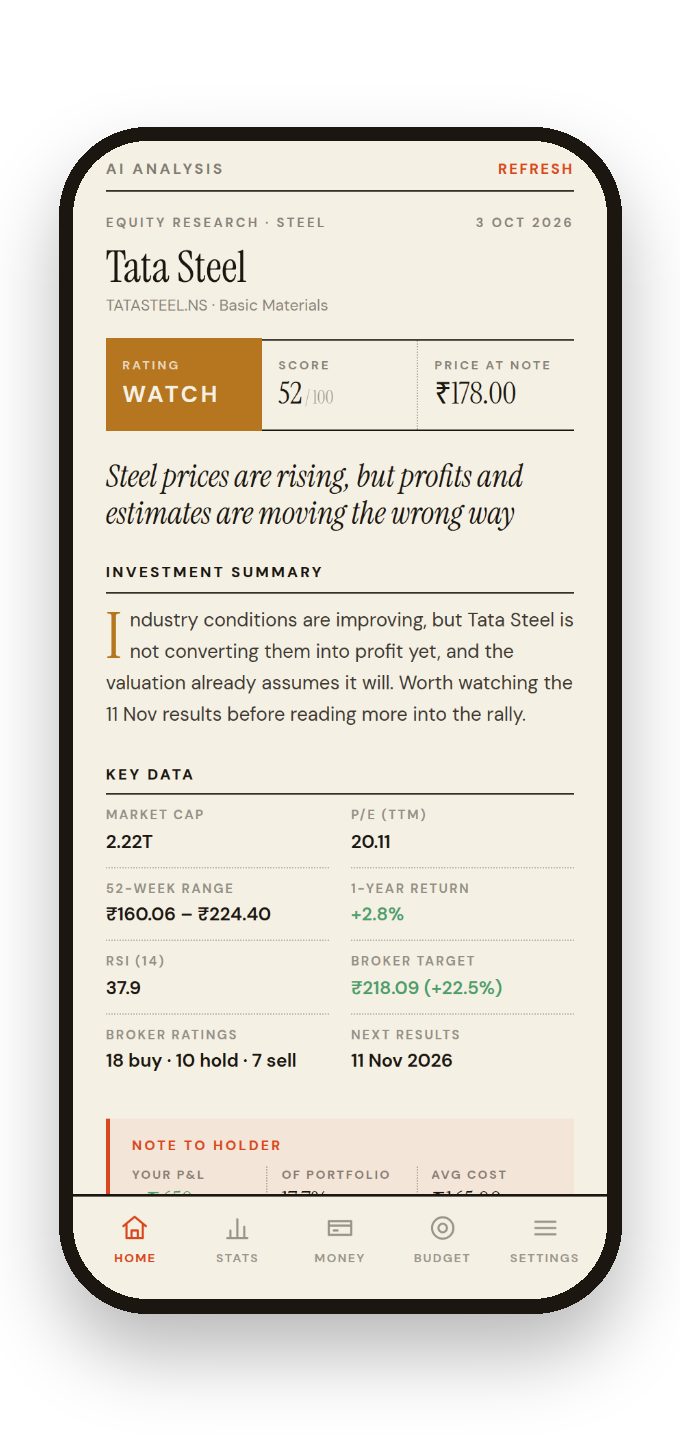
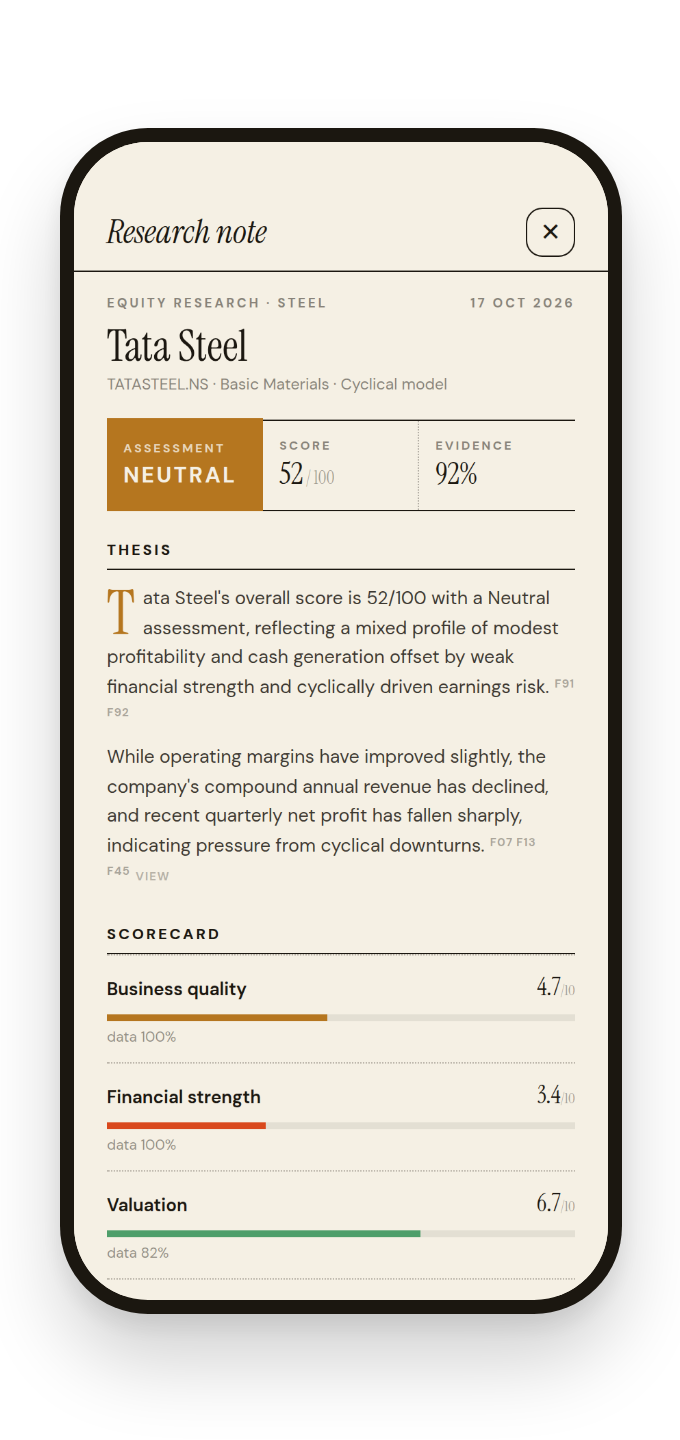
docs: research method v2 in README, CLAUDE.md, tour and probes

diff --git a/src/components/onboarding/WelcomeTour.jsx b/src/components/onboarding/WelcomeTour.jsx
@@ -14,7 +14,7 @@ const SLIDES = [
   { img: homeImg,      accent: '#D9481C', title: 'Everything at a glance',  body: "Your month's spend, budget, portfolio and dues — all on one home screen." },
   { img: askImg,       accent: '#6C5FB0', title: 'Ask Finances anything',  body: 'Ask about your spending, budgets or how the app works — and get instant monthly recaps.' },
   { img: portfolioImg, accent: '#4E9E6A', title: 'Track your investments',  body: 'Stocks, mutual funds and SIPs with live prices, returns and allocation.' },
-  { img: analysisImg,  accent: '#1B1710', title: 'A research note on demand', body: 'One tap weighs the sector, real competitors, quarterly results and news — and tracks how past calls played out.' },
+  { img: analysisImg,  accent: '#1B1710', title: 'A research note on demand', body: 'Four years of financials, peers and valuation scored by fixed rules, explained by AI with every figure checked — and every call tracked.' },
   { img: detailImg,    accent: '#B5761F', title: 'Deep-dive any holding',   body: 'Tap a stock or fund for its live chart, key levels, fundamentals, analyst view and latest news.' },
   { img: moneyImg,     accent: '#6C5FB0', title: 'Your whole net worth',    body: 'Metals, FDs, loans and investments in one number — with a trend that grows.' },
   { img: breakdownImg, accent: '#C9972E', title: 'Where your money goes',   body: 'A clear category breakdown for every month.' },

diff --git a/README.md b/README.md
@@ -33,7 +33,7 @@ An offline-first personal finance app: track spending, budgets, investments, gol
     <td align="center"><img src="docs/frames/portfolio.png?v=2" width="215"/><br/><b>Portfolio</b><br/><sub>Live stocks & mutual funds</sub></td>
   </tr>
   <tr>
-    <td align="center"><img src="docs/frames/analysis.png?v=2" width="215"/><br/><b>Stock analysis 🔬</b><br/><sub>A research note on demand</sub></td>
+    <td align="center"><img src="docs/frames/analysis.png?v=3" width="215"/><br/><b>Stock analysis 🔬</b><br/><sub>A research note on demand</sub></td>
     <td align="center"><img src="docs/frames/detail.png?v=2" width="215"/><br/><b>Holding detail</b><br/><sub>Chart, levels, your position</sub></td>
     <td align="center"><img src="docs/frames/ask.png?v=2" width="215"/><br/><b>Ask Finances 🪄</b><br/><sub>AI: your money & the app</sub></td>
   </tr>
@@ -49,42 +49,46 @@ An offline-first personal finance app: track spending, budgets, investments, gol
 
 ## 🔬 How stock analysis works
 
-One tap builds a full research report. Steps 1–6 run **on the phone, for free**: every number is fetched or computed in code. The AI is called **once**, at the end, only to read the finished numbers and write the report, so it can't invent figures and a report costs under ₹1.
+One tap builds an evidence-based research note. Financial metrics, scores and the assessment are **computed deterministically by code**; the AI is called once, at the end, to explain them — and **every figure it writes is validated against the recorded evidence**, with failing statements removed. A note costs well under ₹1.
 
 ```mermaid
 flowchart TD
     A([📱 Tap “Analyse this stock”]) --> B
 
     subgraph PHONE["On the phone — free, no AI"]
-        B["<b>1 · Identify</b><br/>1Y daily prices + fundamentals<br/>quarterly results · EPS vs estimates · broker ratings<br/><i>Yahoo Finance</i>"]
-        B --> C["<b>2 · Route</b><br/>industry → 1 of 19 sector playbooks<br/>Steel → iron ore, HRC · Banks → NIFTY Bank, RBI · IT → USD-INR, NASDAQ"]
-        C --> D["<b>3 · Find peers</b><br/>every listed company in the industry<br/>→ nearest by market cap · no hardcoded names, no AI<br/><i>Yahoo screener</i>"]
-        D --> E1 & E2 & E3
-        E1["Peer prices & P/E"]
-        E2["Sector drivers<br/>commodities · indices · FX"]
-        E3["Dated news<br/>company · sector · geopolitics<br/><i>Google News</i>"]
-        E1 & E2 & E3 --> F["<b>5 · Compute</b><br/>RSI · MACD · moving averages · Bollinger · ATR<br/>support & resistance · returns · drawdown<br/>relative strength vs peers & NIFTY<br/>results trend · broker upside · your P&L & weight"]
-        F --> G["<b>6 · Brief</b><br/>one labelled briefing · gaps marked “not available”<br/>+ strict rules + JSON shape"]
+        B["<b>1 · Collect</b><br/>4 years of annual statements · quarterly results<br/>1Y daily + 5Y weekly prices · fundamentals · broker consensus<br/><i>Yahoo Finance</i>"]
+        B --> C["<b>2 · Route</b><br/>19 sector playbooks → drivers & news topics<br/>+ a financial model: bank · lender · insurer · cyclical · IT · utility · real estate · general"]
+        C --> D["<b>3 · Peers</b><br/>same NSE industry (NIFTY 500 list) → nearest by size<br/>→ ranked by margin, growth, leverage & ROE similarity<br/>median & interquartile range · “too few peers” flagged"]
+        D --> E["<b>4 · Fact book</b><br/>every input gets an id, period, source, fetch time & status<br/>missing ≠ zero — gaps recorded as “not available”"]
+        E --> F["<b>5 · Engines</b><br/>quality: CAGR, margins, ROCE/ROE, cash conversion, FCF<br/>strength: leverage, interest cover · banks: ROA, NII, capital proxy<br/>valuation: vs peers, vs own history, range with assumptions<br/>market: long/medium/short horizons, liquidity, split checks<br/>risk: volatility, drawdown, dilution, misses · governance = not assessed"]
+        F --> G["<b>6 · Scorecard</b><br/>5 pillar scores (0–10) · sector weights · coverage per pillar<br/>Positive · Neutral · Negative · <b>Insufficient evidence</b>"]
     end
 
     G --> H
 
     subgraph CLOUD["Cloud — the only paid step"]
-        H["Cloudflare Worker<br/><i>holds the API key</i>"] --> I["OpenRouter → DeepSeek V4 Flash<br/>JSON mode · 1 retry · backup model"]
+        H["Cloudflare Worker<br/><i>holds the API key</i>"] --> I["OpenRouter → DeepSeek V4 Flash<br/>writes claims that cite fact ids<br/>fact vs interpretation · unknowns"]
     end
 
-    I --> J["<b>8 · Check & save</b><br/>validate JSON · clamp score · verdict matches score<br/>kept 7 days + “Past calls” track record"]
-    J --> K([📄 Report: score /100 · BUY / WATCH / AVOID<br/>technicals · valuation · results · sector · your position<br/>catalysts · risks · key levels · past calls vs today])
+    I --> J["<b>7 · Validate</b><br/>unknown ids stripped · uncited facts removed<br/>numbers not in the evidence removed · counts shown"]
+    J --> K["<b>8 · Save & evaluate</b><br/>note kept 7 days · every call logged with method version<br/>1M / 3M / 6M / 12M outcome vs NIFTY once each window has passed"]
+    K --> L([📄 Research note: thesis · scorecard · quality · risk · valuation<br/>market · catalysts · what would change the view<br/>data quality · your position · evidence list])
 ```
 
 | Step | Where | Code |
 |---|---|---|
-| Fetch prices, fundamentals, peers, news | Yahoo Finance · Google News | [`marketData.js`](src/services/marketData.js) |
-| Pick sector drivers | 19 industry playbooks | [`sectorPlaybook.js`](src/services/sectorPlaybook.js) |
-| Indicators & levels | on-device | [`technicals.js`](src/utils/technicals.js) |
-| Pipeline, briefing, prompt | on-device | [`stockAnalysis.js`](src/services/stockAnalysis.js) |
+| Prices, statements, fundamentals, news | Yahoo Finance · NSE · Google News | [`marketData.js`](src/services/marketData.js) |
+| Fact book & provenance | on-device | [`research/facts.js`](src/services/research/facts.js) |
+| Quality & strength by financial model | on-device | [`research/fundamentals.js`](src/services/research/fundamentals.js) |
+| Peers & valuation | on-device | [`research/valuation.js`](src/services/research/valuation.js) |
+| Market behaviour & risk | on-device | [`research/market.js`](src/services/research/market.js) |
+| Scorecard & assessment | on-device | [`research/scorecard.js`](src/services/research/scorecard.js) |
+| Claim validation | on-device | [`research/validate.js`](src/services/research/validate.js) |
+| Pipeline & prompt | on-device | [`stockAnalysis.js`](src/services/stockAnalysis.js) |
 | AI proxy | Cloudflare Worker | [`finances-ai-worker.js`](cloudflare-worker/finances-ai-worker.js) |
-| 7-day reports & track record | IndexedDB | [`analysisStore.js`](src/services/analysisStore.js) |
+| Notes, track record & outcomes | IndexedDB | [`analysisStore.js`](src/services/analysisStore.js) |
+
+**Limits, stated plainly:** governance (promoter pledging, audit opinions, related-party deals, litigation) and bank asset quality (NPAs, capital adequacy) need exchange filings that free data doesn't provide — they're shown as *not assessed*, never as clean. Outcomes are measured only going forward: there's no point-in-time fundamentals history to backtest without look-ahead bias. Scoring thresholds are starting hypotheses, versioned so they can be recalibrated against outcomes.
 
 ---
 
@@ -110,15 +114,15 @@ flowchart TD
 - **Live-valued assets**: gold / silver / platinum by weight, **auto-compounding FDs**, **amortizing loans**
 
 ### 🔬 AI stock analysis
-One tap on any stock holding produces a full research report — score (0–100), verdict (BUY / WATCH / AVOID), and plain-English sections — built from the stock **and its context**:
-- **Technicals**, computed on-device: RSI, MACD (and when it crossed), 20/50/200-day averages, Bollinger bands, ATR, swing-pivot support & resistance, returns, drawdown, volume spikes
-- **Sector-aware inputs** — each industry pulls what actually drives it: iron ore & steel futures for steel, NIFTY Bank & RBI news for banks, USD-INR & NASDAQ for IT, crude for oil & autos (19 industries mapped)
-- **Real competitors, size-matched** — peers are discovered live from the full list of listed companies in the same industry and picked by nearest market cap, so a small finance bank is compared with its equals, not with HDFC Bank
-- **Quarterly results** — revenue & profit trend, margins, EPS beats/misses vs estimates, next results date
-- **Dated news** — company, sector and geopolitical headlines, each with its age, so old news isn't read as current
-- **Your position** — your P&L, how much of your portfolio it is, and reference levels
-- **Saved for a week, with a track record** — reopen a stock and the report is still there; every call is logged with its price, so you can see how past verdicts actually played out
-- Every number comes from the app, not the model — the AI only weighs it up and writes it. Research and education, not investment advice.
+One tap on any stock holding produces an **evidence-based research note** — an assessment (Positive / Neutral / Negative, or *Insufficient evidence*), a score built from five pillars, and plain-English sections that cite their evidence:
+- **Fundamentals over four years** — revenue and profit growth, margins and their trend, ROCE/ROE, cash conversion, free cash flow, leverage and interest cover; **banks** judged on ROA, ROE, net interest income and capital instead
+- **Valuation** — against size- and business-matched peers (median and range), against the company's own history, and a valuation range with its assumptions shown — never an invented target
+- **Market behaviour by horizon** — long, medium and short term kept apart; liquidity, relative strength vs NIFTY and the sector, split/bonus checks
+- **Sector-aware** — 19 industry playbooks pick the drivers that matter (iron ore & steel futures for steel, NIFTY Bank & RBI for banks, USD-INR for IT)
+- **Every figure has provenance** — source, period and when it was fetched; anything missing is shown as missing, governance as *not assessed*
+- **AI explains, code decides** — scores and the assessment are rule-based; the AI's statements must cite fact ids and any figure not in the evidence is removed, with counts shown
+- **Track record** — every call is logged with its method version and later compared with NIFTY at 1, 3, 6 and 12 months
+- Research and education, not investment advice
 
 ### 🪄 Ask Finances (AI)
 - **Ask anything** — a chat assistant that answers questions about your money (*"Am I over budget?"*, *"How much on food this month?"*) or how the app works (*"How do I add a SIP?"*)
@@ -237,7 +241,7 @@ No sign-up. No backend for your data. No telemetry. Your expenses, budgets, bala
 
 The app makes network requests in just a few cases: to fetch live investment/metal prices and market news (only when you hold something priced), today's headlines for the Home news brief, and — if you use the AI features — to the AI assistant:
 - **Ask Finances / AI Recap** send a summary of your data (aggregates + recent transactions).
-- **Stock analysis** sends public market data for that stock plus your position in it (quantity, average cost, share of portfolio) — nothing about your spending.
+- **Stock analysis** sends the computed evidence for that stock (public market data, financial statements, headlines) plus your position in it (quantity, average cost, share of portfolio) — nothing about your spending.
 
 All AI features are clearly labelled in Settings and can be turned off; nothing is sent unless you tap Ask, Recap or Analyse.
 

diff --git a/CLAUDE.md b/CLAUDE.md
@@ -70,24 +70,26 @@ The Worker takes `{ prompt, stream?, task? }` where `task` is `chat` (12K prompt
 
 **Privacy:** a data snapshot (aggregates + recent transactions) leaves the device **only** when the user taps Ask/Recap; stock analysis sends public market data plus the user's position in that stock (qty, avg cost, portfolio weight). Everything else stays offline. The single `aiEnabled` toggle in Settings gates all three.
 
-### Stock analysis (`src/services/stockAnalysis.js` + `sectorPlaybook.js` + `utils/technicals.js`)
-On-demand research report on a stock holding — "🔬 Analyse" on `HoldingDetail.jsx` (stocks only, `aiEnabled`), rendered by `components/portfolio/StockAnalysisCard.jsx`. Pipeline in `analyseStock(symbol, name, onProgress, position)`:
+### Stock analysis — evidence-based research note (`stockAnalysis.js` + `services/research/`)
+On-demand note on a stock holding (`HoldingDetail.jsx` → `components/portfolio/StockAnalysisCard.jsx`; summary card on the page, full note in a portalled sheet). Method **`research-2.0`** (`METHOD_VERSION`). Core rule: **code computes every figure, the scores and the assessment; the AI only explains, and its figures are validated against the evidence.**
 
-1. **Identify** — 1Y OHLCV chart + fundamentals (gives `sector`/`industry`/`marketCapRaw`).
-2. **Route** — `playbookFor({sector, industry})` keyword-matches one of 19 industry playbooks → **drivers** (commodity/index/FX tickers, e.g. `TIO=F`, `HRC=F` for steel) and **news topics**. Drivers stay curated (every ticker verified live) — a wrong commodity symbol fails silently.
-3. **Peers** — never hardcoded. `fetchIndustryPeers(industry)` lists every Indian company in the industry; `pickPeers` takes the **nearest by market cap** (log-ratio distance) plus the leader as labelled context. Size-matching is the point: Ujjivan SFB and HDFC Bank share `Banks—Regional` at ~89× different size.
-4. **Gather** in parallel (~20 requests, each `settle`d so one failure degrades rather than breaks): peer prices + P/E, drivers, NIFTY, news per topic.
-5. **Compute** in JS — `computeTechnicals` (RSI, MACD + crossover age, DMAs, Bollinger, ATR, swing-pivot levels, returns, drawdown, volume), relative strength vs a **synthetic equal-weight peer basket** (sector indices lack history), `earningsSummary` (QoQ growth, margins, EPS beat/miss), `positionSummary`, `freshNews` (sorted, >120 days dropped, age attached).
-6. **Format** — `formatContext` → labelled plain text; anything missing is written as "not available" so the model sees the gap.
-7. **Model** — `analysisPrompt` = strict rules (use only given data, never calculate, compare to size-matched peers, weight news by age, position levels are references not instructions, not advice) + JSON schema. `parseReport` tolerates fences/prose and clamps score/verdict.
+Pipeline (`analyseStock`):
+1. **Collect** — 1Y daily + 5Y weekly chart, `fetchStockFundamentals` (now also `raw` numeric fields + currency), `fetchAnnualStatements` (Yahoo **fundamentals-timeseries**, 4 fiscal years, no crumb; **some companies report in USD — e.g. Infosys — so absolute amounts are only used when the statement currency is INR**).
+2. **Route** — `playbookFor` (19 playbooks → drivers, news) + `modelFor(playbook.key)` → financial model: bank / nbfc / insurance / cyclical / it / utility / realty / general.
+3. **Peers** — Yahoo's industry **screener returns 0 rows for everything (Oct 2026)**; `fetchIndustryPeers` still tries it, then falls back to the **NSE NIFTY 500 constituent CSV** (`archives.nseindia.com/content/indices/ind_nifty500list.csv`, NSE industry per company; `NSE_INDUSTRY` maps a playbook to an NSE industry when the stock isn't listed there) + batched `fetchQuotes` (v7 quote, crumb) for market caps. A pool of 12 size-nearest → prefer same Yahoo sub-industry → `rankPeers` by margin/growth/leverage/ROE similarity → best 4. Fewer than `MIN_PEERS` (3) usable multiples = "too few peers", never a manufactured comparison.
+4. **Fact book** (`research/facts.js`) — every input `{id F01…, label, value, unit, period, source, fetchedAt, status: reported|computed|estimate, calc, pillar}`. Missing values go to `missing` with a reason — **never stored as zero**.
+5. **Engines** — `fundamentals.js` (CAGR, margins + trend, mid-cycle margin for cyclicals, ROCE/ROE, cash conversion, FCF years, leverage, interest cover; lenders: ROA, ROE, NII÷assets, equity÷assets; NPAs/CAR recorded as not available), `valuation.js` (peer median/IQR, own year-end P/E history, P/B vs ROE-justified for lenders, FCF yield, a bear/base/bull range from peer multiples), `market.js` (horizon-split technicals, liquidity, >35% one-day jump = possible unadjusted split, stale price, sector index where Yahoo has history, governance = not assessed).
+6. **Scorecard** (`scorecard.js`) — five pillars 0–10 from linear rules over facts, per-pillar **coverage**, sector weights; a pillar under 40% coverage is excluded. Verdicts: POSITIVE ≥65 · NEUTRAL · NEGATIVE <45, or **INSUFFICIENT** when coverage <55%, quality/valuation too thin, stale price or a split jump. Thresholds are **hypotheses** — recorded per call for later calibration.
+7. **Model** — prompt = evidence grouped by pillar with ids + NOT AVAILABLE list. Reply: `{headline, thesis, quality, risk, valuation, market, catalysts, invalidation, position: [{text, ids, type: fact|interpretation}], unknowns}`. A bare `{}` reply (JSON-mode quirk) is retried once.
+8. **Validate** (`validate.js`) — unknown ids stripped; `fact` claims without valid ids dropped; numbers must match a cited fact (or are re-linked to the fact that holds them — counted as `repaired`); numbers found nowhere are dropped. Years, "50-day"-style terms, "/100" and small counting words are ignored. Counts + removed claims are shown in the note's data-quality section.
 
-Same rule as the chat: **figures on screen come from `context`, never from the model's text.**
+Old (v1) reports (`report.version !== 2`, BUY/WATCH/AVOID) still render through the legacy `Report`; `verdictKey` maps them to the new labels. `scripts/probe-full.mjs <SYMBOL> [--prompt]` runs the whole pipeline against the live Worker and prints scores, claims and validation.
 
 **Chart support/resistance (no AI):** `HoldingDetail.jsx` draws one support and one resistance on the price chart for **1M · 6M · 1Y · 5Y** (not MAX), each computed from *that range's own bars* in `stockCache` via `keyLevels` (`technicals.js`) with per-range `LEVEL_CFG` (pivot width `k`, max distance from price). `levels()` clusters swing highs and lows together (role reversal), with an ATR-scaled merge tolerance, and reports touches; `keyLevels` prefers a level tested 2+ times, then the nearest. The AI report's levels use the same function on 1Y daily bars, so the chart's 1Y view matches the report. Values are printed in a key under the chart, never on it — the nearest levels always sit beside the latest price at the right edge, so an in-chart label lands on the price line. Toggle persisted as the `chartLevels` setting (on by default).
 
 **"Today" on the holding screen:** for stocks, `prevClose` must come from the same source as the price. With a live chart price it is the previous bar of the live 1Y series; the cached daily quote is used only when the price itself came from the cache, or when it agrees with the live price (within 2%). Never `stats.prevClose` — `stats` is the selected range's chart meta, whose previous close is the one before the whole range. A stale cached quote (sample data left in `priceCache`) once showed Infosys "−37% today".
 
-**Persistence (`src/services/analysisStore.js`):** one `settings` key, `stockAnalyses` → `{ [symbol]: { latest, history } }` (no DB bump). `latest` is the full report plus a slim `meta` (price, position, source counts) — the raw peer/driver price series are deliberately not stored. It's shown for **7 days** (`REPORT_TTL_MS`), then the card falls back to the Analyse button with "Last analysed …". `history` is the **track record** ("Past calls"): `{ at, price, score, verdict, headline }`, newest first, capped at 24, and a same-day refresh replaces that day's entry. The card compares each call's price with today's; calls under a day old show "today" instead of a move.
+**Persistence & evaluation (`src/services/analysisStore.js`):** one `settings` key, `stockAnalyses` → `{ [symbol]: { latest, history } }` (no DB bump). `latest` = the report + slim `meta` (price, position, key-data snapshot, the **fact list and missing list** so the evidence appendix works offline, peer names, fetch time). Shown for **7 days** (`REPORT_TTL_MS`). `history` (newest first, cap 60, same-day refresh replaces) = `{ at, price, score, verdict, headline, version, model, coverage, pillars }`. `evaluateCalls(history, stockSeries, niftySeries)` gives each call's return and excess vs NIFTY at 1M/3M/6M/12M **only once that window has passed**, using the last close on or before each date (no look-ahead). There is no historical backtest — point-in-time fundamentals aren't available.
 
 `scripts/` holds dev-only Playwright probes: `probe-analysis.mjs <SYMBOL> [name]` prints the full assembled context (no AI), `probe-full.mjs <SYMBOL>` also calls the Worker and prints the raw reply, `shot-analysis.mjs <out.png>` screenshots the rendered report with a stubbed model reply, and `shot-detail.mjs <full.png> [tour.jpg] [frame.png]` captures the holding screen (Reliance, live data) plus the welcome-tour slide and the phone-framed `docs/frames/detail.png`; `shot-home.mjs <tour.jpg> <frame.png>` and `shot-stats.mjs` do the same for Home and Stats → Breakdown with the sample data. Run them from the repo root with `npm run dev` up (playwright must resolve from the project's `node_modules`).
 
